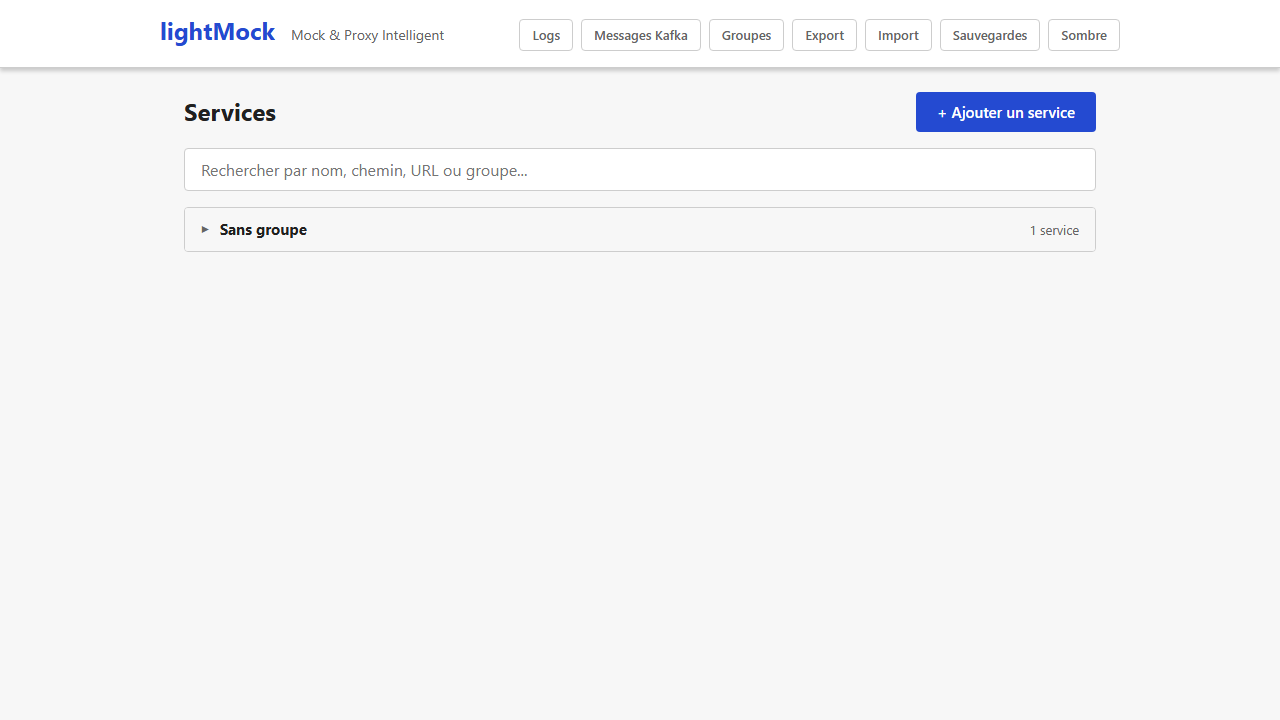
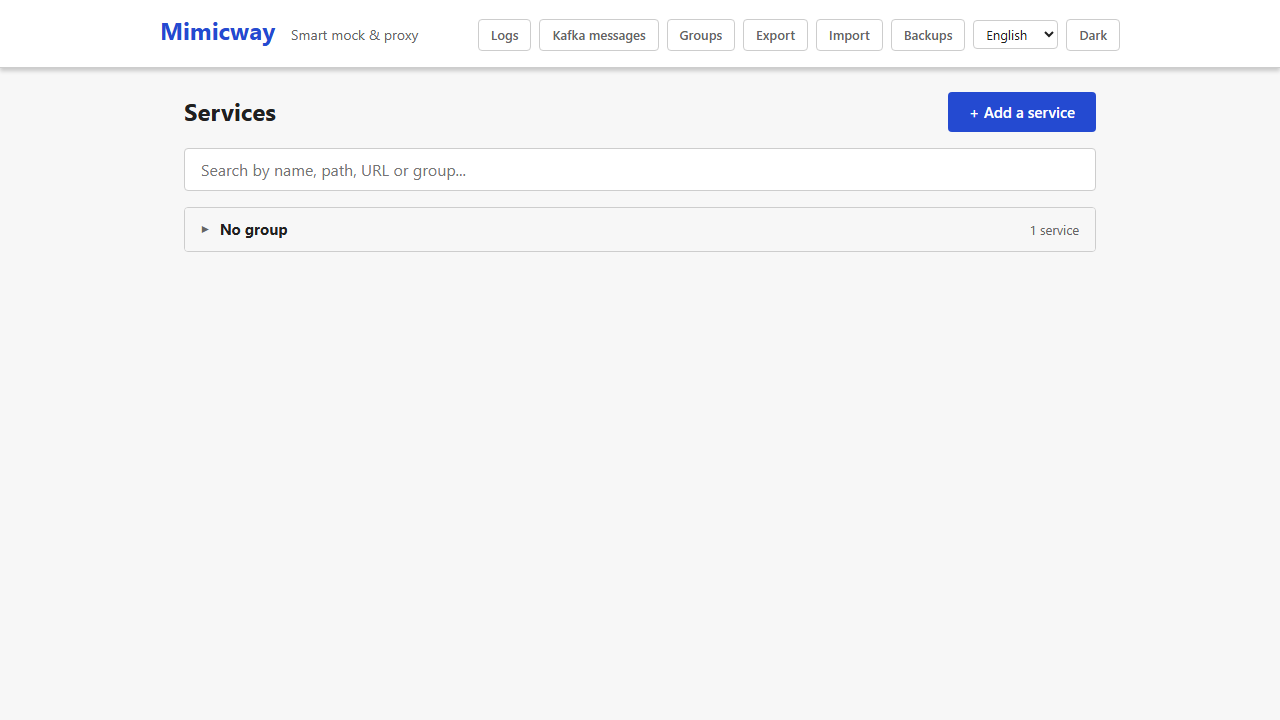
docs: take every screenshot in English and French, in the same state
The guide is about to exist in French as well, and a French page showing
English screens would contradict the text around it. docsScreenshot()
now writes each image to docs/en/screenshots/ and docs/fr/screenshots/
under the same name: it captures the page in English, switches the
interface to French through its own language selector (its change
handler, not selectOption(), which may scroll the page or move the
focus), captures again, and switches back so the test goes on in
English. There is no reload, so both images show the same state, and
nothing is added to the production bundle.

Texts set before the switch keep their language, so they are handled
instead of being captured wrong: a notification in view fails the
capture (two scenarios and a Kafka spec now wait for theirs to close);
the rule tester's hint, worded by the server in the language of the
request, is fetched again after each switch (afterSwitch); the login
screen, which has no selector, is opened again in a French browser
(reopenWaitingFor). Transitions run to their end and the pointer is
moved off the page, so a half-turned chevron or a hovered button no
longer differs between the two images of a pair.

All 38 screenshots were regenerated in both languages and checked one by
one. The three Kafka images, taken from a build with the feature, no
longer show the former French interface. The French images show the
French catalogue as it is, accents missing included (roadmap R9).

diff --git a/frontend/e2e/docs-screenshot.js b/frontend/e2e/docs-screenshot.js
@@ -1,27 +1,125 @@
-// Capture de captures d'ecran pour docs/ a partir de la suite E2E existante
-// (les marqueurs <!-- SCREENSHOT: ... --> dans docs/*.md indiquent ou une
-// vraie image doit s'inserer). Reutilise par scenario-runner.js (action
-// "screenshot" dans les scenarios JSON) et par les fichiers *.spec.js/.mjs
-// classiques qui capturent un etat non modelisable en scenario JSON pur.
+// Screenshots of the user guide, taken by the end-to-end suite so that they follow the interface instead of going
+// stale. The guide exists once per language, in docs/<language>/ with the same file names, so each call writes the
+// same state once per language: the page is captured in English (the language the suite runs in), switched to French
+// with the interface's own language selector, captured again, then switched back so that the test goes on in English.
+// The switch does not reload the page, so both images show exactly the same state, and the production bundle needs no
+// test hook.
 //
-// Desactive par defaut (no-op) : ne prend une vraie capture que si
-// DOCS_SCREENSHOTS est positionne (fait par playwright.docs-screenshots.config.js,
-// jamais par playwright.config.js standard) -- voir frontend/e2e/README.md
-// pour ne jamais ralentir/declencher la suite E2E standard (`npm run test:e2e`).
+// Disabled by default: it only captures when DOCS_SCREENSHOTS is set, which playwright.docs-screenshots.config.js
+// does and playwright.config.js never does, so the standard run takes no screenshot and pays nothing.
 import fs from 'node:fs';
 import path from 'node:path';
 import { fileURLToPath } from 'node:url';
 
 const __dirname = path.dirname(fileURLToPath(import.meta.url));
-const SCREENSHOTS_DIR = path.join(__dirname, '..', '..', 'docs', 'en', 'screenshots');
+const DOCS_DIR = path.join(__dirname, '..', '..', 'docs');
+const LANGUAGE_SELECT = '[data-testid="app-language-select"]';
+const NOTIFICATION = '[data-testid="notification"]';
+// The language of the suite first; the others are captured by switching to them.
+const LANGUAGES = [
+  { code: 'en', locale: 'en-US' },
+  { code: 'fr', locale: 'fr-FR' },
+];
 
 export const DOCS_SCREENSHOTS_ENABLED = !!process.env.DOCS_SCREENSHOTS;
 
-// Prend une capture nommee `filename` (ex. "home-service-list.png") dans
-// docs/en/screenshots/ si DOCS_SCREENSHOTS_ENABLED, sinon ne fait rien (simple
-// verification booleenne, cout negligeable sur la suite standard).
-export async function docsScreenshot(page, filename) {
+function target(language, filename) {
+  const dir = path.join(DOCS_DIR, language, 'screenshots');
+  fs.mkdirSync(dir, { recursive: true });
+  return path.join(dir, filename);
+}
+
+// Transitions (a group's chevron, a button turning from primary to outline) are run to their end, and the pointer is
+// moved off the content: otherwise an image may catch a transition half-way, or a button hovered in one language only
+// (the texts, hence the layout, differ), and the two images of a pair would not show the same state.
+async function capture(page, language, filename) {
+  await page.mouse.move(0, 0);
+  await page.screenshot({ path: target(language, filename), animations: 'disabled' });
+}
+
+// Whether an element shows in the captured viewport (an element scrolled out of it does not appear in the image).
+async function inViewport(page, selector) {
+  const element = page.locator(selector);
+  if (!(await element.isVisible())) return false;
+  const box = await element.boundingBox();
+  const { height } = page.viewportSize();
+  return box !== null && box.y + box.height > 0 && box.y < height;
+}
+
+async function interfaceLanguage(page) {
+  return page.evaluate(() => document.documentElement.lang);
+}
+
+async function switchLanguage(page, code) {
+  // The selector's own change handler, as a user's choice triggers it, but without selectOption(), which may scroll the
+  // navigation bar into view or move the focus: the screen must keep its scroll position and its open popups.
+  await page.locator(LANGUAGE_SELECT).evaluate((select, value) => {
+    select.value = value;
+    select.dispatchEvent(new Event('change', { bubbles: true }));
+  }, code);
+  // The catalogue is fetched on first use; `lang` changes once it is applied.
+  await page.waitForFunction((expected) => document.documentElement.lang === expected, code);
+  // Two frames: the re-rendered texts are laid out and painted before the capture.
+  await page.evaluate(() => new Promise((resolve) => requestAnimationFrame(() => requestAnimationFrame(resolve))));
+}
+
+// A screen without the navigation bar (the login screen) has no language selector: it is opened again at the same URL
+// in a browser set to the other language, which is how a visitor of that language first sees it. Only valid for a
+// screen that opening its URL reproduces; `waitFor` is the selector that shows it is ready.
+async function captureReopened(page, language, filename, waitFor) {
+  const context = await page.context().browser().newContext({ locale: language.locale, viewport: page.viewportSize() });
+  try {
+    const other = await context.newPage();
+    await other.goto(page.url());
+    await other.waitForFunction((expected) => document.documentElement.lang === expected, language.code);
+    await other.locator(waitFor).waitFor();
+    await other.waitForLoadState('networkidle');
+    await capture(other, language.code, filename);
+  } finally {
+    await context.close();
+  }
+}
+
+/**
+ * Writes docs/<language>/screenshots/<filename> for each language of the guide, when DOCS_SCREENSHOTS is set.
+ *
+ * Texts written before the switch keep their language, so they are refused or redone rather than captured as they are:
+ * - a notification holds a sentence chosen when it appeared: a visible one is an error (wait until it closes);
+ * - a text worded by the server follows the language of the request that fetched it: `options.afterSwitch(page)` runs
+ *   after every switch (back to English included) to fetch it again, as the user would by repeating the action.
+ * `options.reopenWaitingFor`: for a screen without the language selector, the selector to wait for once the screen is
+ * opened again in the other languages (see captureReopened); without it, a missing selector is an error.
+ */
+export async function docsScreenshot(page, filename, options = {}) {
   if (!DOCS_SCREENSHOTS_ENABLED) return;
-  fs.mkdirSync(SCREENSHOTS_DIR, { recursive: true });
-  await page.screenshot({ path: path.join(SCREENSHOTS_DIR, filename) });
+  const [source, ...others] = LANGUAGES;
+  const shown = await interfaceLanguage(page);
+  if (shown !== source.code) {
+    throw new Error(`docsScreenshot(${filename}): the interface is in "${shown}", expected "${source.code}"`);
+  }
+  if (await inViewport(page, NOTIFICATION)) {
+    throw new Error(`docsScreenshot(${filename}): a notification is in view and would keep its language; wait for it to close`);
+  }
+  await capture(page, source.code, filename);
+
+  const hasSelector = (await page.locator(LANGUAGE_SELECT).count()) > 0;
+  if (!hasSelector && !options.reopenWaitingFor) {
+    throw new Error(`docsScreenshot(${filename}): no language selector on this screen; pass reopenWaitingFor`);
+  }
+  const switchTo = async (code) => {
+    await switchLanguage(page, code);
+    if (options.afterSwitch) {
+      await options.afterSwitch(page);
+      await page.evaluate(() => new Promise((resolve) => requestAnimationFrame(() => requestAnimationFrame(resolve))));
+    }
+  };
+  for (const language of others) {
+    if (hasSelector) {
+      await switchTo(language.code);
+      await capture(page, language.code, filename);
+    } else {
+      await captureReopened(page, language, filename, options.reopenWaitingFor);
+    }
+  }
+  if (hasSelector) await switchTo(source.code);
 }

diff --git a/frontend/e2e/scenario-runner.js b/frontend/e2e/scenario-runner.js
@@ -8,7 +8,7 @@
 // logique "composant.cle" resolu via selectors.json (SOURCE UNIQUE des
 // selecteurs). Voir frontend/e2e/README.md pour le format complet et
 // comment ajouter un nouveau scenario/selecteur. L'action "screenshot"
-// (docs/en/screenshots) est un no-op sauf regeneration explicite -- voir
+// (docs/<langue>/screenshots) est un no-op sauf regeneration explicite -- voir
 // docs-screenshot.js et frontend/e2e/README.md, section captures.
 import fs from 'node:fs';
 import path from 'node:path';
@@ -92,7 +92,7 @@ async function runStep(page, step) {
       // No-op sauf regeneration explicite des captures docs/ (cf
       // docs-screenshot.js) -- ne ralentit jamais la suite E2E standard.
       // `step.file` est un nom de fichier simple (pas un chemin), ecrit dans
-      // docs/en/screenshots/.
+      // docs/<langue>/screenshots/, une fois par langue du guide.
       await docsScreenshot(page, step.file);
       return;
     }

diff --git a/frontend/e2e/rule-tester.spec.js b/frontend/e2e/rule-tester.spec.js
@@ -90,7 +90,14 @@ test.describe('Testeur de regle : condition mal choisie contre une vraie requete
     await expect(page.getByText(/would not match this request/)).toBeVisible();
     await expect(page.getByText(/value found: none/)).toBeVisible();
     await expect(page.getByText(/present as a path parameter/)).toBeVisible();
-    await docsScreenshot(page, 'rule-tester-hint.png');
+    // The hint is worded by the server in the language of the request: test again after each language switch.
+    await docsScreenshot(page, 'rule-tester-hint.png', {
+      afterSwitch: async (p) => {
+        const answered = p.waitForResponse('**/api/rule-test');
+        await p.getByTestId('rule-tester-test-button').click();
+        await answered;
+      },
+    });
   });
 
   test('la selection du path param est stricte (select ferme, pas de saisie libre)', async ({ page, request }) => {

diff --git a/frontend/e2e/auth-static-assets.spec.js b/frontend/e2e/auth-static-assets.spec.js
@@ -115,7 +115,9 @@ test.describe('Auth: assets statiques de la SPA accessibles sans token (AUTH_ENA
     // la liste des services.
     await expect(page.locator('[data-testid="login-form-username-input"]')).toBeVisible();
     await expect(page.locator('[data-testid="login-form-password-input"]')).toBeVisible();
-    await docsScreenshot(page, 'authentication-login-screen.png');
+    await docsScreenshot(page, 'authentication-login-screen.png', {
+      reopenWaitingFor: '[data-testid="login-form-username-input"]',
+    });
   });
 
   test('a signed-in super-admin sees their name and the reset button', async ({ page }) => {

diff --git a/frontend/e2e/messaging.spec.js b/frontend/e2e/messaging.spec.js
@@ -84,6 +84,7 @@ test.describe('Messaging (Kafka) — journal des messages via simulation UI', ()
     await expect(row).toBeVisible();
     await expect(row).toContainText('kafka-svc / order-created');
     await expect(row).toContainText('Matches');
+    await expect(page.getByTestId('notification')).toBeHidden();
     await docsScreenshot(page, 'kafka-message-log.png');
   });
 

diff --git a/frontend/e2e/README.md b/frontend/e2e/README.md
@@ -94,14 +94,15 @@ grep -rhoE 'data-testid="[^"]*"' frontend/src --include="*.svelte" | sort -u
 
 ## Documentation screenshots
 
-The images of `docs/` are taken by this suite, so they follow the interface instead of going stale.
+The images of `docs/` are taken by this suite, so they follow the interface instead of going stale. The guide exists in English and French with the same pages, so every image exists in both languages.
 
 - `docsScreenshot(page, file)` (`docs-screenshot.js`) does nothing unless `DOCS_SCREENSHOTS` is set: the standard run takes no screenshot and pays nothing.
 - In a scenario, a `{ "action": "screenshot", "file": "name.png" }` step captures the page at that point; in a spec, `await docsScreenshot(page, 'name.png')` does the same.
+- Each call captures the page in English, switches it to French with the interface's language selector (no reload: the screen keeps its state), captures it again and switches back, so the test goes on in English. A screen without the navigation bar (the login screen) has no selector: pass `{ reopenWaitingFor: '<selector>' }` and the French image is taken by opening the same URL in a French browser. Without that option, a missing selector fails the test rather than producing an image in the wrong language.
 - `playwright.docs-screenshots.config.js` sets `DOCS_SCREENSHOTS` and runs only the files that take screenshots.
 
 ```bash
 npm run docs:screenshots   # from frontend/, with Mimicway running on :7342
 ```
 
-Images are written to `docs/en/screenshots/` under the names the pages reference; `node scripts/check-doc-links.mjs` (run by CI) fails when a page references an image that does not exist. The three Kafka images need a binary built with `--features messaging-kafka`. States that no test reaches yet have no image; covering them is roadmap item R5.
+Images are written to `docs/en/screenshots/` and `docs/fr/screenshots/` under the names the pages reference. `node scripts/check-doc-links.mjs` (run by CI) fails when a page references an image that does not exist. The three Kafka images need a binary built with `--features messaging-kafka`. States that no test reaches yet have no image; covering them is roadmap item R5.

diff --git a/frontend/README.md b/frontend/README.md
@@ -15,7 +15,7 @@ npm run dev           # http://localhost:5173, proxies /api and /runtime-config.
 npm run build         # dist/, embedded by the next cargo build (or served with STATIC_DIR)
 npm test              # Vitest unit tests, including the translation checks
 npm run test:e2e      # Playwright, against a Mimicway running on :7342 (see e2e/README.md)
-npm run docs:screenshots   # regenerates the images of docs/ from the end-to-end suite
+npm run docs:screenshots   # regenerates the images of docs/en/ and docs/fr/ from the end-to-end suite
 ```
 
 ## Layout
